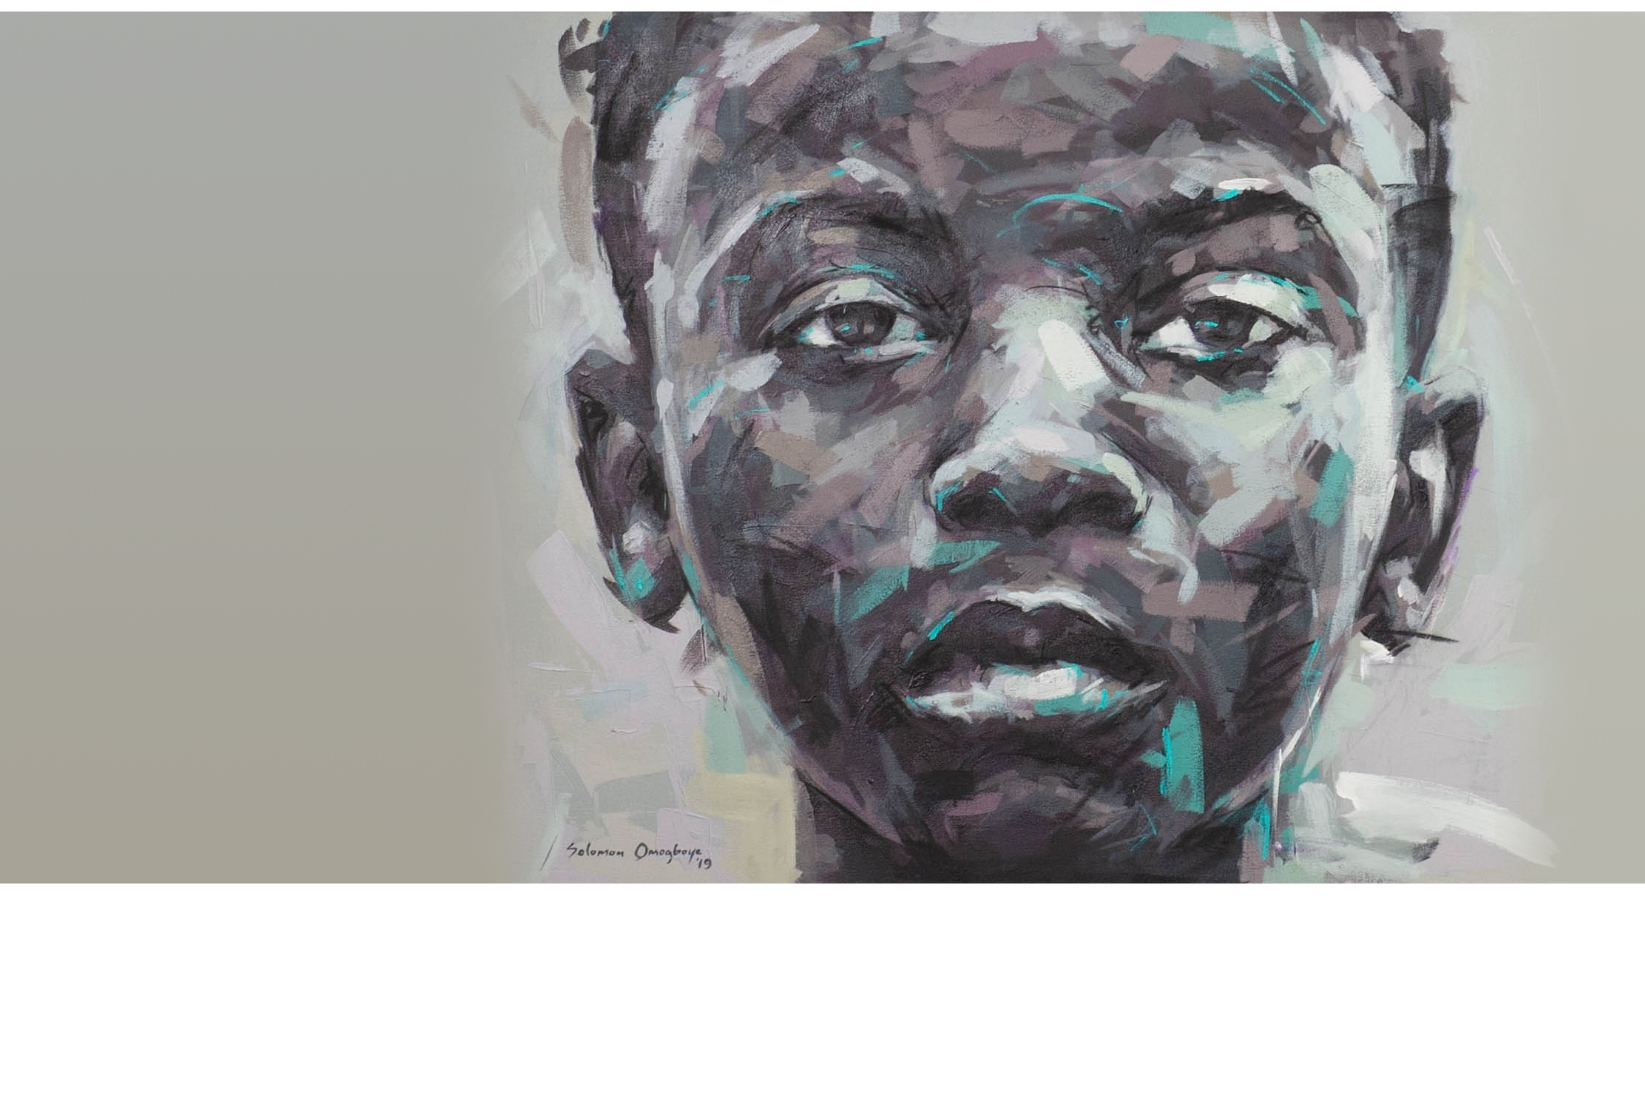
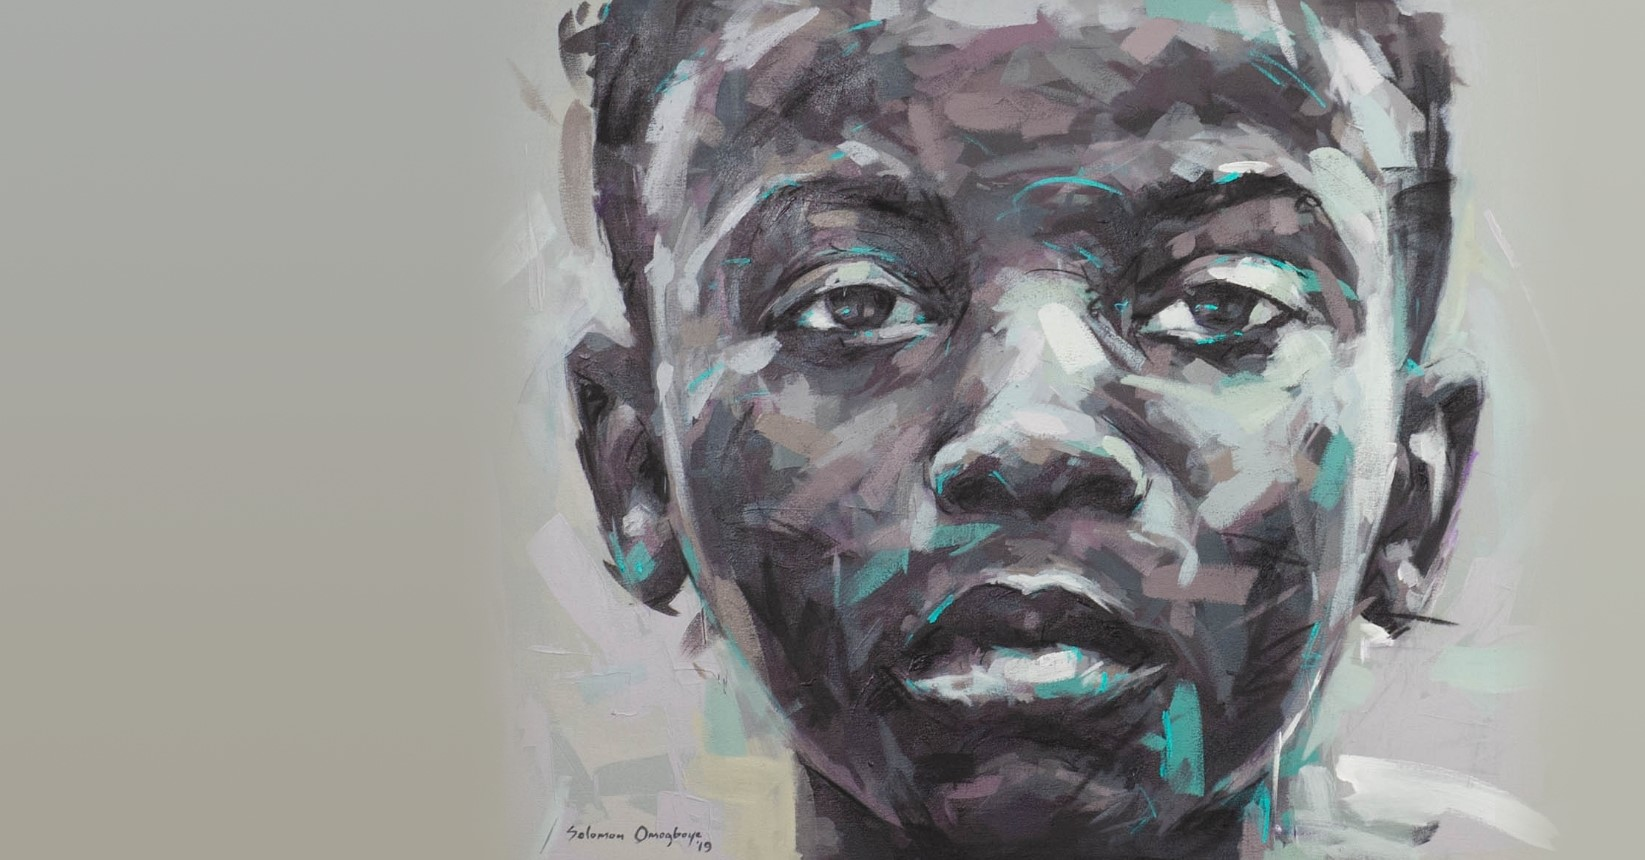
responsive styles

diff --git a/css/responsive.css b/css/responsive.css
@@ -37,12 +37,33 @@
   }
   .intro,
   .rec {
-    display: none;
+    top: 30%;
+  }
+  .right-arrow img {
+    width: 50px;
   }
   .slider {
     height: 400px;
   }
   .tab-options .option {
     width: 48%;
+  }
+  nav {
+    padding: 30px 0px;
+  }
+  .slide {
+    background-position: center;
+  }
+}
+
+@media screen and (max-width: 576px) {
+  .intro h1 {
+    font-size: 16px;
+  }
+  .logo img {
+    width: 150px;
+  }
+  .option .icon {
+    display: none;
   }
 }
